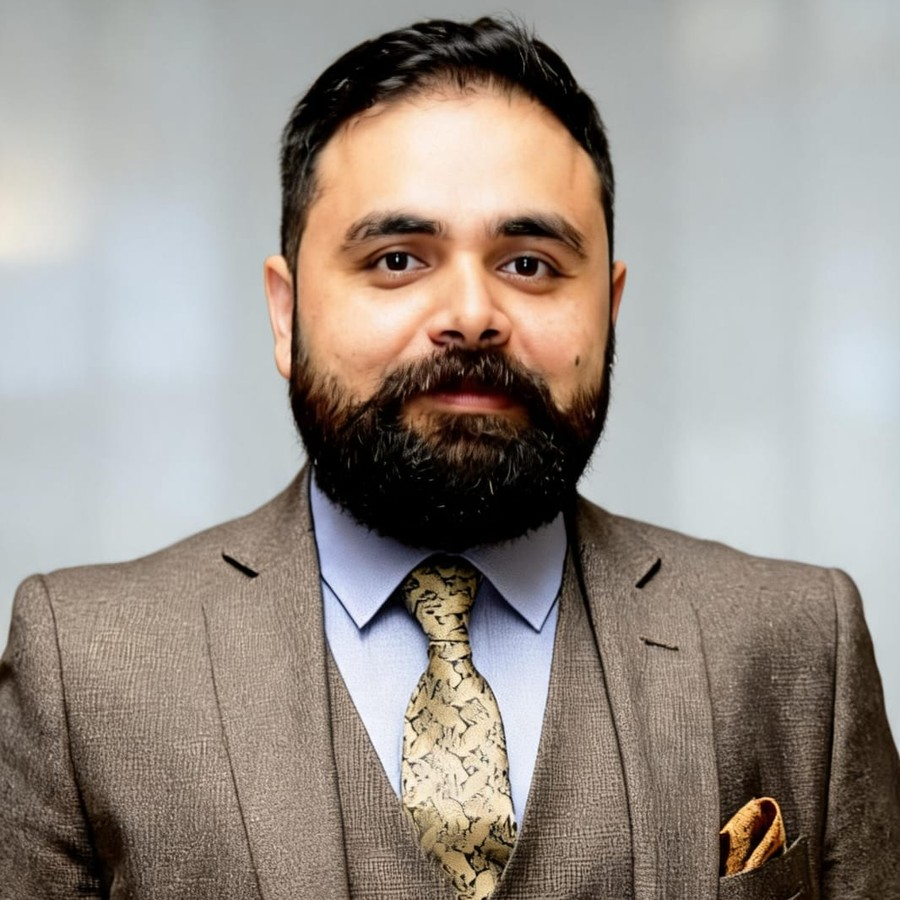
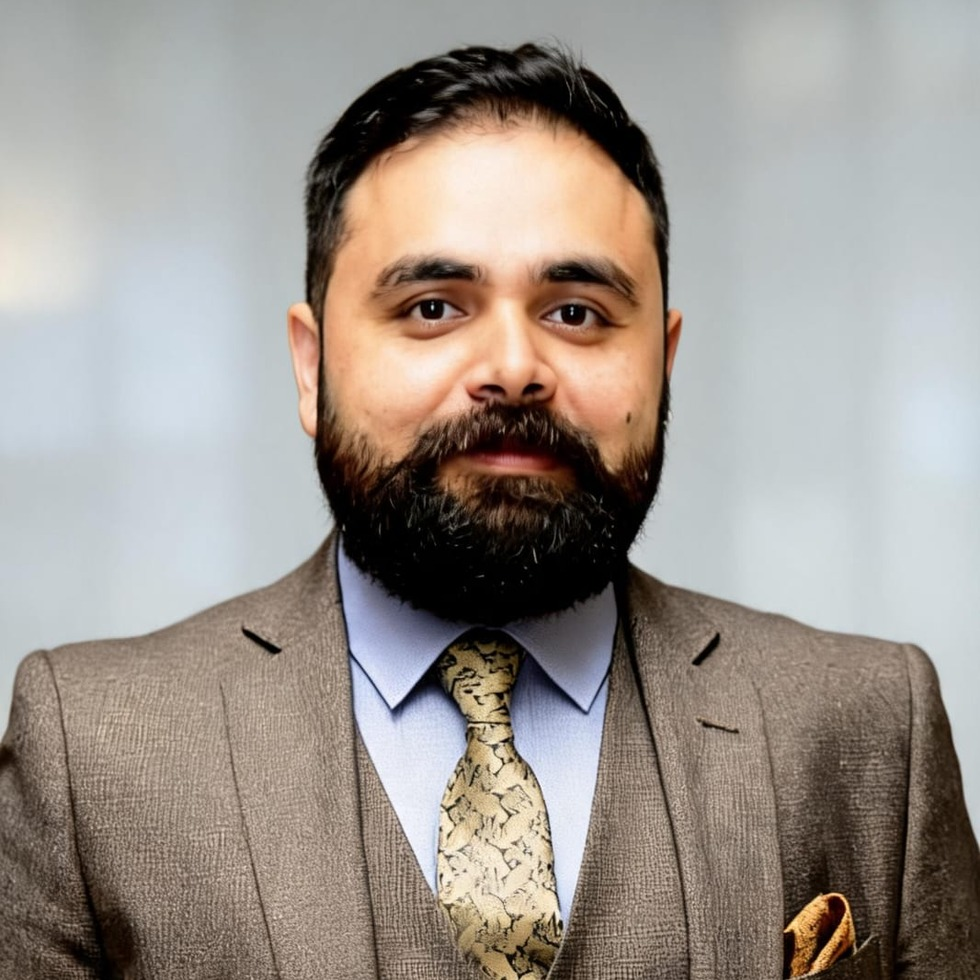
Add files via upload

Changed region(s): [[0.0, 0.0, 1.0, 1.0], [0.0, 0.28, 0.0311, 0.3111]]

diff --git a/index.html b/index.html
@@ -4,11 +4,10 @@
   <meta charset="UTF-8" />
   <meta name="viewport" content="width=device-width, initial-scale=1.0" />
   <title>Kashif Ali | Strategic Finance Leader</title>
-  <meta name="description" content="Kashif Ali is an ACCA-qualified Strategic Finance Leader based in Dubai with expertise in FP&A, Treasury, Corporate Finance, Manufacturing Finance, ERP Transformation, Investor Financing and Business Partnering." />
-  <meta name="keywords" content="Kashif Ali, Strategic Finance Leader, Finance Manager, FP&A, Treasury, Corporate Finance, Manufacturing Finance, Dubai Finance Leader, Head of Finance, ACCA" />
-  <meta name="author" content="Kashif Ali" />
+  <meta name="description" content="Kashif Ali is a Strategic Finance Leader with 13+ years across UAE and international markets, specializing in FP&A, treasury, corporate finance, manufacturing finance, working capital, investor financing and governance." />
+  <meta name="keywords" content="Kashif Ali, Strategic Finance Leader, FP&A, Treasury, Corporate Finance, Finance Manager, Head of Finance, Manufacturing Finance, Dubai, ACCA" />
   <meta property="og:title" content="Kashif Ali | Strategic Finance Leader" />
-  <meta property="og:description" content="FP&A, Corporate Finance, Treasury, Manufacturing Finance, Business Partnering and Governance leadership across UAE and international markets." />
+  <meta property="og:description" content="Driving Financial Performance, Capital Strategy & Business Transformation." />
   <meta property="og:type" content="website" />
   <meta property="og:url" content="https://kashifali.info" />
   <meta property="og:image" content="assets/profile.jpg" />
@@ -16,102 +15,104 @@
   <link rel="stylesheet" href="styles.css" />
 </head>
 <body>
-  <div class="site-bg"></div>
-  <header class="site-header" id="top">
+  <div class="noise"></div>
+  <header class="header" id="home">
     <nav class="nav">
-      <a class="brand" href="#top" aria-label="Kashif Ali Home"><span class="brand-mark">KA</span><span class="brand-text">Kashif Ali</span></a>
-      <button class="nav-toggle" aria-label="Open navigation" aria-expanded="false"><span></span><span></span><span></span></button>
-      <div class="nav-links"><a href="#about">About</a><a href="#achievements">Achievements</a><a href="#expertise">Expertise</a><a href="#experience">Experience</a><a href="#contact">Contact</a></div>
+      <a class="logo" href="#home" aria-label="Kashif Ali home"><span>KA</span></a>
+      <button class="menu-btn" aria-label="Open menu" aria-expanded="false"><i></i><i></i><i></i></button>
+      <div class="nav-links">
+        <a href="#leadership">Leadership</a>
+        <a href="#projects">Projects</a>
+        <a href="#expertise">Expertise</a>
+        <a href="#career">Career</a>
+        <a href="#contact">Contact</a>
+      </div>
     </nav>
   </header>
   <main>
-    <section class="hero section">
+    <section class="hero">
       <div class="container hero-grid">
         <div class="hero-copy reveal">
-          <p class="eyebrow">ACCA • Dubai, UAE • UAE & International Markets</p>
+          <p class="micro">UAE & International Markets • 13+ Years of Finance Leadership</p>
           <h1>Kashif Ali</h1>
           <h2>Strategic Finance Leader</h2>
-          <p class="hero-subtitle">FP&amp;A | Corporate Finance | Treasury | Business Partnering | Manufacturing Finance</p>
-          <p class="hero-intro">ACCA-qualified finance leader with 13+ years of experience driving financial performance, working capital optimization, investor financing, governance improvements and strategic growth across UAE and international markets.</p>
-          <div class="hero-actions">
-            <a class="btn primary" href="assets/resume.pdf" target="_blank" rel="noopener">Download Resume</a>
-            <a class="btn secondary" href="https://www.linkedin.com/in/kashif15/" target="_blank" rel="noopener">Connect on LinkedIn</a>
-            <a class="btn ghost" href="#contact">Contact Me</a>
+          <p class="tagline">Driving Financial Performance, Capital Strategy & Business Transformation</p>
+          <p class="intro">I partner with executive leadership teams to transform financial insight into strategic business decisions that improve profitability, strengthen cash flow, optimize capital and enable sustainable business growth.</p>
+          <div class="cta-row">
+            <a href="assets/resume.pdf" class="btn primary" target="_blank" rel="noopener">Download Resume</a>
+            <a href="https://www.linkedin.com/in/kashif15/" class="btn outline" target="_blank" rel="noopener">LinkedIn Profile</a>
           </div>
         </div>
-        <div class="hero-visual reveal">
-          <div class="portrait-card"><img src="assets/profile.jpg" alt="Kashif Ali professional portrait" /></div>
-          <div class="credential-card"><span>13+</span><p>Years of Finance Leadership</p></div>
+        <div class="hero-photo-wrap reveal">
+          <div class="frame"></div>
+          <img src="assets/profile.jpg" alt="Kashif Ali professional profile photo" class="hero-photo" />
+          <div class="floating-note"><strong>Finance should not only report performance.</strong><span>It should shape it.</span></div>
         </div>
       </div>
     </section>
-    <section class="metrics section-sm" aria-label="Key achievements">
+    <section class="metrics">
       <div class="container metrics-grid">
-        <article class="metric-card reveal"><span class="metric-value">AED 14M+</span><span class="metric-label">Working Capital Improvement</span></article>
-        <article class="metric-card reveal"><span class="metric-value">AED 5.5M</span><span class="metric-label">Growth Funding Secured</span></article>
-        <article class="metric-card reveal"><span class="metric-value">GBP 1.5M</span><span class="metric-label">Investor Financing Arranged</span></article>
-        <article class="metric-card reveal"><span class="metric-value">AED 3M+</span><span class="metric-label">Commercial Savings</span></article>
-        <article class="metric-card reveal"><span class="metric-value">55%</span><span class="metric-label">ERP Efficiency Gain</span></article>
-        <article class="metric-card reveal"><span class="metric-value">11</span><span class="metric-label">Professionals Managed</span></article>
+        <div class="metric reveal"><strong>AED 14M+</strong><span>Working Capital Released</span></div>
+        <div class="metric reveal"><strong>AED 5.5M</strong><span>Growth Capital Secured</span></div>
+        <div class="metric reveal"><strong>GBP 1.5M</strong><span>Private Investor Financing</span></div>
+        <div class="metric reveal"><strong>AED 3M+</strong><span>Profitability Improvement</span></div>
+        <div class="metric reveal"><strong>55%</strong><span>Process Transformation</span></div>
+        <div class="metric reveal"><strong>13+</strong><span>Years Leadership Experience</span></div>
       </div>
     </section>
-    <section class="section" id="about">
-      <div class="container two-col">
-        <div class="section-heading reveal"><p class="eyebrow">Executive Profile</p><h2>Finance leadership built around performance, control and growth.</h2></div>
-        <div class="content-block reveal">
-          <p>I am an ACCA-qualified Strategic Finance Leader with over 13 years of experience spanning financial planning &amp; analysis, treasury management, corporate finance, manufacturing finance, investor relations, ERP transformation and business partnering.</p>
-          <p>Throughout my career, I have worked closely with CEOs, shareholders, investors and executive leadership teams to improve profitability, optimize working capital, secure growth funding and support sustainable business expansion.</p>
-          <p>My experience extends beyond finance leadership into enterprise-wide governance and operational improvement, having conducted internal audits across marketing, human resources, supply chain, manufacturing and commercial operations to strengthen controls and improve business performance.</p>
+    <section class="section" id="leadership">
+      <div class="container split">
+        <div class="section-title reveal"><span>Leadership Philosophy</span><h2>Great finance leaders do not simply measure performance — they influence it.</h2></div>
+        <div class="prose reveal">
+          <p>Across more than 13 years in finance leadership, I have delivered measurable results through FP&A, corporate finance, treasury, manufacturing finance, ERP transformation, investor funding, governance and business partnering.</p>
+          <p>I believe finance should enable confident decisions through transparency, commercial understanding, governance and disciplined capital allocation. Whether supporting CEOs, shareholders, investors or operational teams, my objective has always been to create sustainable value through strategic financial leadership.</p>
+          <p>My experience also extends into enterprise-wide governance and operational improvement, including risk-based internal audits across marketing, human resources, supply chain, manufacturing and commercial operations.</p>
         </div>
       </div>
     </section>
-    <section class="section warm" id="achievements">
+    <section class="section projects-section" id="projects">
       <div class="container">
-        <div class="center-heading reveal"><p class="eyebrow">Selected Achievements</p><h2>Measurable impact across funding, working capital, transformation and governance.</h2></div>
-        <div class="achievement-grid">
-          <article class="achievement-card reveal"><div class="icon">01</div><h3>AED 14M+ Working Capital Improvement</h3><p>Improved liquidity and strengthened cash flow through receivables discipline, procurement planning and working capital optimization initiatives.</p></article>
-          <article class="achievement-card reveal"><div class="icon">02</div><h3>AED 5.5M Growth Funding</h3><p>Secured growth funding through investor engagement, crowdfunding initiatives and private investment structures supporting business expansion.</p></article>
-          <article class="achievement-card reveal"><div class="icon">03</div><h3>GBP 1.5M Investor Financing</h3><p>Structured and facilitated private investor financing to support execution of a strategic supplier purchase contract and drive revenue growth.</p></article>
-          <article class="achievement-card reveal"><div class="icon">04</div><h3>ERP Transformation</h3><p>Participated in Microsoft Dynamics 365 implementation, improving process execution time by 55% and strengthening reporting capability.</p></article>
-          <article class="achievement-card reveal"><div class="icon">05</div><h3>AED 3M+ Commercial Savings</h3><p>Delivered savings through supplier financing strategies, procurement optimization and commercial negotiations.</p></article>
-          <article class="achievement-card reveal"><div class="icon">06</div><h3>Governance &amp; Internal Audit</h3><p>Conducted risk-based audits across Marketing, HR, Supply Chain, Manufacturing and Commercial Operations, strengthening controls and operational effectiveness.</p></article>
+        <div class="center-title reveal"><span>Selected Projects</span><h2>Signature outcomes across capital, transformation, governance and growth.</h2></div>
+        <div class="project-grid">
+          <article class="project reveal"><small>Working Capital Transformation</small><h3>AED 14M+ Cash Flow Improvement</h3><p>Released cash and strengthened liquidity through receivables discipline, cash flow planning, procurement alignment and working capital optimization initiatives.</p></article>
+          <article class="project reveal"><small>Capital Raising</small><h3>AED 5.5M Growth Funding</h3><p>Supported investor engagement and funding initiatives that strengthened the capital base and enabled strategic business expansion.</p></article>
+          <article class="project reveal"><small>Investor Financing</small><h3>GBP 1.5M Supplier Contract Funding</h3><p>Structured and facilitated private investor financing for a strategic supplier purchase contract, supporting transaction execution and revenue growth objectives.</p></article>
+          <article class="project reveal"><small>ERP & Process Transformation</small><h3>55% Efficiency Improvement</h3><p>Participated in Microsoft Dynamics 365 implementation, improving process execution time and enhancing reporting, controls and decision visibility.</p></article>
+          <article class="project reveal"><small>Commercial Optimization</small><h3>AED 3M+ Savings Generated</h3><p>Delivered savings through supplier financing, pricing support, cost optimization, commercial negotiation and margin-focused analysis.</p></article>
+          <article class="project reveal"><small>Governance & Internal Audit</small><h3>Cross-Functional Audit Impact</h3><p>Conducted risk-based audits across Marketing, HR, Supply Chain, Manufacturing and Commercial Operations, identifying process improvements and strengthening internal controls.</p></article>
         </div>
       </div>
     </section>
     <section class="section" id="expertise">
       <div class="container">
-        <div class="center-heading reveal"><p class="eyebrow">Core Expertise</p><h2>Strategic finance capability across growth, control and transformation.</h2></div>
-        <div class="expertise-grid">
-          <article class="expertise-card reveal"><h3>Finance Leadership</h3><ul><li>Financial Planning &amp; Analysis</li><li>Budgeting &amp; Forecasting</li><li>Corporate Finance</li><li>Treasury Management</li><li>Investor Relations</li></ul></article>
-          <article class="expertise-card reveal"><h3>Manufacturing &amp; Operations</h3><ul><li>Manufacturing Finance</li><li>Product Costing</li><li>Inventory Management</li><li>Supply Chain Finance</li><li>Working Capital Optimization</li></ul></article>
-          <article class="expertise-card reveal"><h3>Governance &amp; Transformation</h3><ul><li>Internal Audit</li><li>Risk Management</li><li>Internal Controls</li><li>ERP Implementation</li><li>Process Improvement</li></ul></article>
-          <article class="expertise-card reveal"><h3>Strategic Business Partnering</h3><ul><li>Board Reporting</li><li>Executive Decision Support</li><li>Investment Appraisal</li><li>Strategic Planning</li><li>Stakeholder Management</li></ul></article>
-        </div>
+        <div class="center-title reveal"><span>Expertise</span><h2>Finance capabilities aligned with executive decision-making.</h2></div>
+        <div class="chips reveal"><span>FP&A</span><span>Treasury</span><span>Corporate Finance</span><span>Manufacturing Finance</span><span>Product Costing</span><span>Investor Relations</span><span>Business Partnering</span><span>Working Capital</span><span>ERP Transformation</span><span>Internal Controls</span><span>Risk Management</span><span>Board Reporting</span><span>Strategic Planning</span><span>Capital Allocation</span><span>Commercial Finance</span><span>Internal Audit</span></div>
       </div>
     </section>
-    <section class="section dark-panel">
-      <div class="container leadership-grid">
-        <div class="reveal"><p class="eyebrow light">Leadership Philosophy</p><h2>Finance should not only report performance — it should shape it.</h2></div>
-        <div class="reveal"><p>My approach to finance leadership is built on clarity, accountability and commercial partnership. I believe effective finance functions help management understand what happened, why it happened, what risks are emerging and what actions should be taken next.</p><p>Whether through cost visibility, cash discipline, funding support, governance improvements or ERP transformation, my focus is on translating financial insight into practical business decisions.</p></div>
-      </div>
-    </section>
-    <section class="section" id="experience">
+    <section class="section career-section" id="career">
       <div class="container">
-        <div class="center-heading reveal"><p class="eyebrow">Career Journey</p><h2>Progressive finance leadership across international and multi-sector environments.</h2></div>
+        <div class="center-title reveal"><span>Career Journey</span><h2>Progressive finance leadership across multi-sector and international environments.</h2></div>
         <div class="timeline">
-          <article class="timeline-item reveal"><span class="year">2023 – Present</span><div><h3>Finance Manager – Finance &amp; Operations</h3><p class="company">Al Fursan Used Computers TR LLC • UAE &amp; Hong Kong</p><p>Financial strategy, treasury, budgeting, procurement governance, profitability analysis and business performance management.</p></div></article>
-          <article class="timeline-item reveal"><span class="year">2021 – 2023</span><div><h3>Global Finance Manager</h3><p class="company">ITR Global FZE • UAE, UK, Australia &amp; Pakistan</p><p>International finance leadership, funding, investor engagement, multi-entity FP&amp;A, strategic planning and capital allocation support.</p></div></article>
-          <article class="timeline-item reveal"><span class="year">2019 – 2021</span><div><h3>Chief Accountant</h3><p class="company">Green Point Technical Services LLC (DAMAC Group)</p><p>ERP transformation, receivables optimization, financial controls, team leadership and board-level business feasibility support.</p></div></article>
-          <article class="timeline-item reveal"><span class="year">2016 – 2018</span><div><h3>Assistant Manager – Finance</h3><p class="company">Levant Jewellery DMCC</p><p>Treasury management, profitability analysis, product costing, financial reporting and commercial finance support.</p></div></article>
-          <article class="timeline-item reveal"><span class="year">2015 – 2016</span><div><h3>Senior Finance Executive</h3><p class="company">Paklite FZC</p><p>Manufacturing finance, standard costing, inventory valuation, variance analysis, factory budgeting and financing facility management.</p></div></article>
-          <article class="timeline-item reveal"><span class="year">2012 – 2015</span><div><h3>Internal Audit Executive</h3><p class="company">CCL Pharmaceuticals</p><p>Risk-based internal audits across Marketing, HR, Supply Chain, Manufacturing and Commercial Operations, delivering governance and process improvement recommendations.</p></div></article>
+          <div class="timeline-row reveal"><div class="timeline-year">2023</div><div class="timeline-card"><h3>Finance Manager – Finance & Operations</h3><p>Al Fursan Used Computers TR LLC</p><span>Financial strategy, treasury, budgeting, profitability and business performance management.</span></div></div>
+          <div class="timeline-row reveal"><div class="timeline-year">2021</div><div class="timeline-card"><h3>Global Finance Manager</h3><p>ITR Global FZE</p><span>Capital raising, investor relations, international FP&A, multi-entity reporting and strategic planning.</span></div></div>
+          <div class="timeline-row reveal"><div class="timeline-year">2019</div><div class="timeline-card"><h3>Chief Accountant</h3><p>Green Point Technical Services LLC (DAMAC Group)</p><span>ERP transformation, team leadership, receivables turnaround and board-level feasibility support.</span></div></div>
+          <div class="timeline-row reveal"><div class="timeline-year">2016</div><div class="timeline-card"><h3>Assistant Manager – Finance</h3><p>Levant Jewellery DMCC</p><span>Treasury, product costing, profitability analysis, financial reporting and commercial finance.</span></div></div>
+          <div class="timeline-row reveal"><div class="timeline-year">2015</div><div class="timeline-card"><h3>Senior Finance Executive</h3><p>Paklite FZC</p><span>Manufacturing finance, standard costing, inventory valuation, factory budgeting and financing facilities.</span></div></div>
+          <div class="timeline-row reveal"><div class="timeline-year">2012</div><div class="timeline-card"><h3>Internal Audit Executive</h3><p>CCL Pharmaceuticals</p><span>Risk-based audits across Marketing, HR, Supply Chain, Manufacturing and Commercial Operations.</span></div></div>
         </div>
       </div>
     </section>
-    <section class="section resume-cta" id="resume"><div class="container cta-card reveal"><div><p class="eyebrow">Executive Resume</p><h2>Download my latest finance leadership resume.</h2><p>Prepared for Finance Manager, Senior Finance Manager, Head of Finance and Finance Director-track opportunities.</p></div><a class="btn primary" href="assets/resume.pdf" target="_blank" rel="noopener">Download Resume</a></div></section>
-    <section class="section" id="contact"><div class="container contact-grid"><div class="section-heading reveal"><p class="eyebrow">Contact</p><h2>Let's connect.</h2><p>Based in Dubai, UAE and open to finance leadership opportunities across UAE and international markets.</p></div><div class="contact-card reveal"><a href="mailto:[email redacted]">[email redacted]</a><a href="tel:+971523771715">+971 52 3771715</a><a href="https://www.linkedin.com/in/kashif15/" target="_blank" rel="noopener">linkedin.com/in/kashif15</a><span>Dubai, United Arab Emirates</span></div></div></section>
+    <section class="section resume-band">
+      <div class="container resume-card reveal"><div><span>Executive Resume</span><h2>Interested in how I deliver strategic finance outcomes?</h2><p>Download my latest resume prepared for Finance Manager, Senior Finance Manager, Head of Finance and Finance Director-track opportunities.</p></div><a class="btn primary" href="assets/resume.pdf" target="_blank" rel="noopener">Download Resume</a></div>
+    </section>
+    <section class="section contact-section" id="contact">
+      <div class="container contact-grid">
+        <div class="section-title reveal"><span>Contact</span><h2>Let’s connect.</h2><p>Available for finance leadership opportunities across UAE and international markets.</p></div>
+        <div class="contact-panel reveal"><a href="mailto:[email redacted]">[email redacted]</a><a href="tel:+971523771715">+971 52 3771715</a><a href="https://www.linkedin.com/in/kashif15/" target="_blank" rel="noopener">linkedin.com/in/kashif15</a><span>UAE & International Markets</span></div>
+      </div>
+    </section>
   </main>
-  <footer class="footer"><div class="container footer-inner"><p>© <span id="currentYear"></span> Kashif Ali. All rights reserved.</p><a href="#top">Back to top</a></div></footer>
+  <footer><div class="container footer-inner"><p>© <span id="year"></span> Kashif Ali. All rights reserved.</p><a href="#home">Back to top</a></div></footer>
   <script src="script.js"></script>
 </body>
 </html>

diff --git a/script.js b/script.js
@@ -1,1 +1,1 @@
-document.addEventListener("DOMContentLoaded",()=>{const year=document.getElementById("currentYear");if(year)year.textContent=new Date().getFullYear();const navToggle=document.querySelector(".nav-toggle");const navLinks=document.querySelector(".nav-links");if(navToggle&&navLinks){navToggle.addEventListener("click",()=>{const isOpen=navLinks.classList.toggle("open");navToggle.setAttribute("aria-expanded",String(isOpen))});navLinks.querySelectorAll("a").forEach(link=>{link.addEventListener("click",()=>{navLinks.classList.remove("open");navToggle.setAttribute("aria-expanded","false")})})}const revealElements=document.querySelectorAll(".reveal");const observer=new IntersectionObserver(entries=>{entries.forEach(entry=>{if(entry.isIntersecting){entry.target.classList.add("visible");observer.unobserve(entry.target)}})},{threshold:.12});revealElements.forEach(el=>observer.observe(el))});
+document.addEventListener("DOMContentLoaded",()=>{const y=document.getElementById("year");if(y)y.textContent=new Date().getFullYear();const b=document.querySelector(".menu-btn"),n=document.querySelector(".nav-links");if(b&&n){b.addEventListener("click",()=>{const o=n.classList.toggle("open");b.setAttribute("aria-expanded",String(o))});n.querySelectorAll("a").forEach(l=>l.addEventListener("click",()=>{n.classList.remove("open");b.setAttribute("aria-expanded","false")}))}const items=document.querySelectorAll(".reveal");const obs=new IntersectionObserver(es=>{es.forEach(e=>{if(e.isIntersecting){e.target.classList.add("visible");obs.unobserve(e.target)}})},{threshold:.14});items.forEach(i=>obs.observe(i))});

diff --git a/styles.css b/styles.css
@@ -1,1 +1,1 @@
-:root{--primary:#2f3437;--primary-2:#1f2325;--accent:#b08d57;--accent-2:#d1b47b;--bg:#f8f6f2;--surface:#fff;--surface-2:#f0ebe2;--text:#222;--muted:#6b6760;--line:rgba(47,52,55,.14);--shadow:0 24px 70px rgba(31,35,37,.12);--radius:24px;--max:1180px}*{box-sizing:border-box}html{scroll-behavior:smooth}body{margin:0;font-family:Inter,ui-sans-serif,system-ui,-apple-system,BlinkMacSystemFont,"Segoe UI",Arial,sans-serif;color:var(--text);background:var(--bg);line-height:1.65}a{color:inherit;text-decoration:none}img{max-width:100%;display:block}.site-bg{position:fixed;inset:0;z-index:-1;background:radial-gradient(circle at 10% 10%,rgba(176,141,87,.18),transparent 32%),radial-gradient(circle at 90% 12%,rgba(47,52,55,.12),transparent 28%),linear-gradient(180deg,#fbfaf7 0%,var(--bg) 100%)}.container{width:min(var(--max),calc(100% - 40px));margin:0 auto}.section{padding:96px 0}.section-sm{padding:42px 0}.site-header{position:sticky;top:0;z-index:10;backdrop-filter:blur(18px);background:rgba(248,246,242,.82);border-bottom:1px solid var(--line)}.nav{width:min(var(--max),calc(100% - 40px));margin:0 auto;height:76px;display:flex;align-items:center;justify-content:space-between}.brand{display:flex;align-items:center;gap:12px;font-weight:750;letter-spacing:-.02em}.brand-mark{width:42px;height:42px;border-radius:50%;display:grid;place-items:center;background:var(--primary);color:var(--accent-2);font-family:Georgia,serif;font-size:17px}.nav-links{display:flex;align-items:center;gap:26px;font-size:14px;color:var(--muted)}.nav-links a:hover{color:var(--primary)}.nav-toggle{display:none;width:42px;height:42px;border:1px solid var(--line);border-radius:10px;background:var(--surface)}.nav-toggle span{display:block;width:18px;height:2px;background:var(--primary);margin:4px auto}.hero{padding:96px 0 54px}.hero-grid{display:grid;grid-template-columns:1.1fr .75fr;align-items:center;gap:72px}.eyebrow{text-transform:uppercase;letter-spacing:.16em;color:var(--accent);font-weight:800;font-size:12px;margin:0 0 14px}.eyebrow.light{color:var(--accent-2)}h1,h2,h3{line-height:1.1;margin:0;color:var(--primary)}h1{font-family:Georgia,"Times New Roman",serif;font-size:clamp(54px,8vw,96px);letter-spacing:-.06em}.hero h2{font-size:clamp(30px,4.4vw,54px);font-weight:750;margin-top:8px}.hero-subtitle{font-size:18px;color:var(--primary);font-weight:650;margin:24px 0 14px}.hero-intro{max-width:670px;font-size:18px;color:var(--muted)}.hero-actions{display:flex;flex-wrap:wrap;gap:14px;margin-top:34px}.btn{display:inline-flex;align-items:center;justify-content:center;min-height:48px;padding:0 22px;border-radius:999px;font-weight:750;font-size:14px;transition:transform .25s ease,box-shadow .25s ease,background .25s ease}.btn:hover{transform:translateY(-2px)}.btn.primary{background:var(--primary);color:#fff;box-shadow:0 18px 44px rgba(31,35,37,.18)}.btn.secondary{background:var(--accent);color:#fff;box-shadow:0 18px 44px rgba(176,141,87,.2)}.btn.ghost{border:1px solid var(--line);background:rgba(255,255,255,.6);color:var(--primary)}.portrait-card{position:relative;overflow:hidden;border-radius:36px;background:var(--surface);box-shadow:var(--shadow);padding:14px}.portrait-card:before{content:"";position:absolute;inset:0;background:linear-gradient(135deg,rgba(176,141,87,.24),transparent 40%);pointer-events:none}.portrait-card img{border-radius:26px;aspect-ratio:1/1.12;object-fit:cover}.credential-card{margin:-42px 34px 0 auto;position:relative;width:210px;border-radius:22px;background:var(--primary);color:#fff;padding:22px;box-shadow:var(--shadow)}.credential-card span{display:block;font-size:40px;font-weight:850;color:var(--accent-2);line-height:1}.credential-card p{margin:8px 0 0;color:rgba(255,255,255,.82);font-size:14px}.metrics{border-top:1px solid var(--line);border-bottom:1px solid var(--line);background:rgba(255,255,255,.52)}.metrics-grid{display:grid;grid-template-columns:repeat(6,1fr);gap:14px}.metric-card{background:var(--surface);border:1px solid var(--line);border-radius:18px;padding:22px 16px;text-align:center;box-shadow:0 12px 36px rgba(47,52,55,.06)}.metric-value{display:block;font-size:25px;font-weight:850;color:var(--primary)}.metric-label{display:block;margin-top:7px;color:var(--muted);font-size:13px;line-height:1.35}.two-col,.leadership-grid,.contact-grid{display:grid;grid-template-columns:.85fr 1.15fr;gap:72px;align-items:start}.section-heading h2,.center-heading h2,.leadership-grid h2,.cta-card h2{font-size:clamp(30px,4vw,48px);letter-spacing:-.04em}.content-block p,.leadership-grid p,.contact-grid p{color:var(--muted);font-size:17px}.warm{background:var(--surface-2)}.center-heading{max-width:780px;margin:0 auto 48px;text-align:center}.achievement-grid,.expertise-grid{display:grid;grid-template-columns:repeat(3,1fr);gap:22px}.expertise-grid{grid-template-columns:repeat(4,1fr)}.achievement-card,.expertise-card{background:var(--surface);border:1px solid var(--line);border-radius:var(--radius);padding:28px;box-shadow:0 16px 44px rgba(47,52,55,.07)}.achievement-card .icon{width:48px;height:48px;border-radius:14px;display:grid;place-items:center;background:rgba(176,141,87,.14);color:var(--accent);font-weight:850;margin-bottom:22px}.achievement-card h3,.expertise-card h3{font-size:21px;margin-bottom:12px}.achievement-card p{margin:0;color:var(--muted)}.expertise-card ul{list-style:none;padding:0;margin:18px 0 0}.expertise-card li{padding:9px 0;border-top:1px solid var(--line);color:var(--muted);font-size:14px}.dark-panel{background:var(--primary);color:#fff}.dark-panel h2{color:#fff}.dark-panel p{color:rgba(255,255,255,.76)}.timeline{position:relative;max-width:960px;margin:0 auto}.timeline:before{content:"";position:absolute;top:10px;bottom:10px;left:158px;width:1px;background:var(--line)}.timeline-item{display:grid;grid-template-columns:130px 1fr;gap:56px;position:relative;padding:28px 0}.timeline-item:before{content:"";position:absolute;left:150px;top:38px;width:17px;height:17px;background:var(--accent);border:5px solid var(--bg);border-radius:50%;z-index:1}.year{color:var(--accent);font-weight:850;font-size:14px;padding-top:5px}.timeline-item h3{font-size:24px}.company{margin:8px 0;color:var(--primary);font-weight:750}.timeline-item p:last-child{color:var(--muted);margin:0}.resume-cta{padding-top:30px}.cta-card{background:var(--surface);border:1px solid var(--line);border-radius:34px;padding:42px;box-shadow:var(--shadow);display:flex;align-items:center;justify-content:space-between;gap:28px}.cta-card p{color:var(--muted);margin-bottom:0}.contact-card{background:var(--primary);color:#fff;border-radius:30px;padding:34px;box-shadow:var(--shadow);display:grid;gap:16px}.contact-card a,.contact-card span{padding:14px 0;border-bottom:1px solid rgba(255,255,255,.13)}.contact-card a:hover{color:var(--accent-2)}.footer{border-top:1px solid var(--line);padding:26px 0;color:var(--muted);font-size:14px}.footer-inner{display:flex;justify-content:space-between;gap:20px}.reveal{opacity:0;transform:translateY(22px);transition:opacity .75s ease,transform .75s ease}.reveal.visible{opacity:1;transform:translateY(0)}@media(max-width:980px){.hero-grid,.two-col,.leadership-grid,.contact-grid{grid-template-columns:1fr;gap:42px}.metrics-grid{grid-template-columns:repeat(3,1fr)}.achievement-grid,.expertise-grid{grid-template-columns:repeat(2,1fr)}.nav-links{position:fixed;top:76px;left:20px;right:20px;display:none;flex-direction:column;align-items:flex-start;background:var(--surface);border:1px solid var(--line);border-radius:18px;padding:20px;box-shadow:var(--shadow)}.nav-links.open{display:flex}.nav-toggle{display:block}}@media(max-width:680px){.container,.nav{width:min(100% - 28px,var(--max))}.section{padding:68px 0}.hero{padding-top:64px}.metrics-grid,.achievement-grid,.expertise-grid{grid-template-columns:1fr}.hero-actions{flex-direction:column}.btn{width:100%}.timeline:before{left:10px}.timeline-item{grid-template-columns:1fr;gap:8px;padding-left:40px}.timeline-item:before{left:2px}.cta-card{flex-direction:column;align-items:flex-start}.footer-inner{flex-direction:column}}
+:root{--charcoal:#2b2d2b;--charcoal2:#171917;--bronze:#b08d57;--gold:#d4b06a;--ivory:#f7f2e9;--warm:#eee4d4;--white:#fff;--text:#232323;--muted:#706b61;--line:rgba(43,45,43,.14);--shadow:0 28px 90px rgba(23,25,23,.14);--radius:30px;--max:1180px}*{box-sizing:border-box}html{scroll-behavior:smooth}body{margin:0;font-family:Inter,ui-sans-serif,system-ui,-apple-system,BlinkMacSystemFont,"Segoe UI",Arial,sans-serif;background:var(--ivory);color:var(--text);line-height:1.65}body:before{content:"";position:fixed;inset:0;pointer-events:none;background:radial-gradient(circle at 12% 8%,rgba(176,141,87,.22),transparent 34%),radial-gradient(circle at 90% 4%,rgba(43,45,43,.11),transparent 28%),linear-gradient(180deg,#fbf7ef 0%,#f7f2e9 60%,#efe3d0 100%);z-index:-2}.noise{position:fixed;inset:0;opacity:.05;pointer-events:none;background-image:linear-gradient(45deg,rgba(0,0,0,.3) 25%,transparent 25%),linear-gradient(-45deg,rgba(0,0,0,.25) 25%,transparent 25%);background-size:6px 6px;z-index:-1}a{color:inherit;text-decoration:none}img{display:block;max-width:100%}.container{width:min(var(--max),calc(100% - 42px));margin:0 auto}.header{position:sticky;top:0;z-index:30;border-bottom:1px solid var(--line);background:rgba(247,242,233,.84);backdrop-filter:blur(16px)}.nav{height:76px;width:min(var(--max),calc(100% - 42px));margin:0 auto;display:flex;align-items:center;justify-content:space-between}.logo span{width:46px;height:46px;border-radius:50%;display:grid;place-items:center;background:var(--charcoal);color:var(--gold);font-family:Georgia,serif;font-weight:800;letter-spacing:-.04em;box-shadow:0 14px 34px rgba(43,45,43,.18)}.nav-links{display:flex;gap:28px;color:var(--muted);font-size:14px;font-weight:650}.nav-links a:hover{color:var(--charcoal)}.menu-btn{display:none;border:1px solid var(--line);background:rgba(255,255,255,.65);border-radius:12px;width:44px;height:44px}.menu-btn i{display:block;width:18px;height:2px;background:var(--charcoal);margin:4px auto}.hero{padding:96px 0 64px}.hero-grid{display:grid;grid-template-columns:1.05fr .82fr;gap:74px;align-items:center}.micro{display:inline-flex;padding:9px 14px;border:1px solid rgba(176,141,87,.35);border-radius:999px;color:var(--charcoal);background:rgba(255,255,255,.45);font-size:12px;font-weight:800;letter-spacing:.08em;text-transform:uppercase;margin:0 0 26px}h1,h2,h3{margin:0;line-height:1.05;color:var(--charcoal)}h1{font-family:Georgia,"Times New Roman",serif;font-size:clamp(58px,8.5vw,112px);letter-spacing:-.07em}.hero h2{margin-top:12px;font-size:clamp(28px,4vw,54px);letter-spacing:-.045em}.tagline{margin:24px 0 0;font-size:clamp(24px,3vw,40px);line-height:1.18;color:var(--bronze);max-width:820px;font-weight:800;letter-spacing:-.04em}.intro{color:var(--muted);font-size:18px;margin:26px 0 0;max-width:700px}.cta-row{display:flex;flex-wrap:wrap;gap:14px;margin-top:34px}.btn{min-height:50px;padding:0 24px;border-radius:999px;display:inline-flex;align-items:center;justify-content:center;font-weight:800;transition:transform .25s ease,box-shadow .25s ease}.btn:hover{transform:translateY(-2px)}.btn.primary{background:var(--charcoal);color:white;box-shadow:0 18px 45px rgba(43,45,43,.22)}.btn.outline{border:1px solid var(--charcoal);color:var(--charcoal);background:rgba(255,255,255,.5)}.hero-photo-wrap{position:relative}.frame{position:absolute;inset:-18px 22px 22px -18px;border:1px solid rgba(176,141,87,.45);border-radius:42px;z-index:-1}.hero-photo{width:100%;aspect-ratio:1/1.12;object-fit:cover;border-radius:42px;box-shadow:var(--shadow);border:12px solid rgba(255,255,255,.72)}.floating-note{position:absolute;left:-42px;bottom:42px;width:255px;border-radius:24px;padding:20px;background:rgba(43,45,43,.92);color:#fff;box-shadow:var(--shadow);backdrop-filter:blur(16px)}.floating-note strong{display:block;font-size:15px;line-height:1.35;color:var(--gold)}.floating-note span{display:block;margin-top:6px;color:rgba(255,255,255,.78)}.metrics{padding:34px 0;border-top:1px solid var(--line);border-bottom:1px solid var(--line);background:rgba(255,255,255,.38)}.metrics-grid{display:grid;grid-template-columns:repeat(6,1fr);gap:14px}.metric{text-align:center;padding:22px 14px;border-radius:22px;background:rgba(255,255,255,.7);border:1px solid var(--line);box-shadow:0 18px 44px rgba(43,45,43,.06)}.metric strong{display:block;font-size:26px;color:var(--charcoal);line-height:1}.metric span{display:block;margin-top:10px;font-size:13px;color:var(--muted);line-height:1.35}.section{padding:104px 0}.split,.contact-grid{display:grid;grid-template-columns:.82fr 1.18fr;gap:78px}.section-title span,.center-title span,.resume-card span{display:inline-block;color:var(--bronze);text-transform:uppercase;font-weight:900;font-size:12px;letter-spacing:.18em;margin-bottom:14px}.section-title h2,.center-title h2,.resume-card h2{font-size:clamp(32px,4.2vw,52px);letter-spacing:-.05em}.prose p{color:var(--muted);font-size:18px;margin:0 0 20px}.projects-section{background:var(--warm)}.center-title{text-align:center;max-width:800px;margin:0 auto 54px}.project-grid{display:grid;grid-template-columns:repeat(3,1fr);gap:22px}.project{min-height:275px;padding:30px;border-radius:var(--radius);background:linear-gradient(180deg,rgba(255,255,255,.82),rgba(255,255,255,.62));border:1px solid rgba(43,45,43,.11);box-shadow:0 20px 52px rgba(43,45,43,.08);position:relative;overflow:hidden}.project:after{content:"";position:absolute;right:-40px;bottom:-40px;width:130px;height:130px;border-radius:50%;background:rgba(176,141,87,.13)}.project small{color:var(--bronze);font-weight:900;text-transform:uppercase;letter-spacing:.12em;font-size:11px}.project h3{font-size:24px;margin:16px 0 12px;letter-spacing:-.025em}.project p{color:var(--muted);margin:0}.chips{display:flex;justify-content:center;flex-wrap:wrap;gap:12px;max-width:970px;margin:0 auto}.chips span{padding:12px 17px;border-radius:999px;background:rgba(255,255,255,.68);border:1px solid var(--line);color:var(--charcoal);font-weight:750;box-shadow:0 12px 36px rgba(43,45,43,.05)}.career-section{background:var(--charcoal);color:#fff}.career-section h2,.career-section h3{color:#fff}.career-section .center-title span{color:var(--gold)}.timeline{max-width:950px;margin:0 auto;position:relative}.timeline:before{content:"";position:absolute;left:126px;top:0;bottom:0;width:1px;background:rgba(255,255,255,.16)}.timeline-row{display:grid;grid-template-columns:98px 1fr;gap:56px;padding:24px 0;position:relative}.timeline-row:before{content:"";position:absolute;left:118px;top:38px;width:16px;height:16px;background:var(--gold);border-radius:50%;border:5px solid var(--charcoal)}.timeline-year{color:var(--gold);font-size:20px;font-weight:900}.timeline-card{padding:24px 28px;border-radius:24px;background:rgba(255,255,255,.07);border:1px solid rgba(255,255,255,.12)}.timeline-card h3{font-size:24px}.timeline-card p{color:var(--gold);font-weight:800;margin:8px 0}.timeline-card span{color:rgba(255,255,255,.74)}.resume-band{padding-top:76px}.resume-card{background:linear-gradient(135deg,var(--charcoal),var(--charcoal2));color:#fff;border-radius:34px;padding:44px;box-shadow:var(--shadow);display:flex;justify-content:space-between;gap:28px;align-items:center}.resume-card h2{color:#fff}.resume-card p{color:rgba(255,255,255,.72);margin-bottom:0}.resume-card span{color:var(--gold)}.contact-panel{background:rgba(255,255,255,.76);border:1px solid var(--line);border-radius:var(--radius);padding:32px;box-shadow:var(--shadow);display:grid;gap:12px}.contact-panel a,.contact-panel span{padding:14px 0;border-bottom:1px solid var(--line);font-weight:750}.contact-panel a:hover{color:var(--bronze)}footer{border-top:1px solid var(--line);padding:28px 0;color:var(--muted);font-size:14px}.footer-inner{display:flex;justify-content:space-between;gap:18px}.reveal{opacity:0;transform:translateY(24px);transition:opacity .75s ease,transform .75s ease}.reveal.visible{opacity:1;transform:translateY(0)}@media(max-width:980px){.hero-grid,.split,.contact-grid{grid-template-columns:1fr;gap:50px}.metrics-grid{grid-template-columns:repeat(3,1fr)}.project-grid{grid-template-columns:repeat(2,1fr)}.floating-note{left:18px}.nav-links{display:none;position:fixed;top:76px;left:20px;right:20px;flex-direction:column;gap:18px;background:rgba(255,255,255,.94);border:1px solid var(--line);border-radius:20px;padding:22px;box-shadow:var(--shadow)}.nav-links.open{display:flex}.menu-btn{display:block}}@media(max-width:680px){.container,.nav{width:min(100% - 28px,var(--max))}.hero{padding:62px 0 46px}.section{padding:74px 0}.metrics-grid,.project-grid{grid-template-columns:1fr}.cta-row{flex-direction:column}.btn{width:100%}.floating-note{position:static;width:auto;margin-top:16px}.timeline:before{left:10px}.timeline-row{grid-template-columns:1fr;gap:8px;padding-left:42px}.timeline-row:before{left:2px}.resume-card{flex-direction:column;align-items:flex-start}.footer-inner{flex-direction:column}}

diff --git a/README.md b/README.md
@@ -1,38 +1,3 @@
-# Kashif Ali Portfolio Website
+# Kashif Ali Portfolio Website — Version 2.0
 
-Personal executive portfolio website for Kashif Ali.
-
-## Files
-- index.html — main website
-- styles.css — design and responsive layout
-- script.js — navigation and animations
-- assets/profile.jpg — profile photo
-- assets/resume.pdf — downloadable resume
-- assets/favicon.svg — site icon
-
-## GitHub Upload
-1. Open your GitHub repository.
-2. Click Add file > Upload files.
-3. Upload all files and folders from this package.
-4. Click Commit changes.
-
-## Cloudflare Pages Deployment
-1. Go to Cloudflare.
-2. Open Workers & Pages.
-3. Click Create application.
-4. Select Pages.
-5. Connect to GitHub.
-6. Select the kashifali-portfolio repository.
-7. Build settings:
-   - Framework preset: None
-   - Build command: leave blank
-   - Build output directory: /
-8. Click Deploy.
-
-## Custom Domain
-In Cloudflare Pages:
-1. Open your Pages project.
-2. Go to Custom domains.
-3. Add kashifali.info and www.kashifali.info.
-4. Follow Cloudflare DNS instructions.
-5. Update GoDaddy DNS if required.
+Upload all files and folders to your GitHub repository `kashifali-portfolio`. Cloudflare Pages will redeploy automatically after commit.